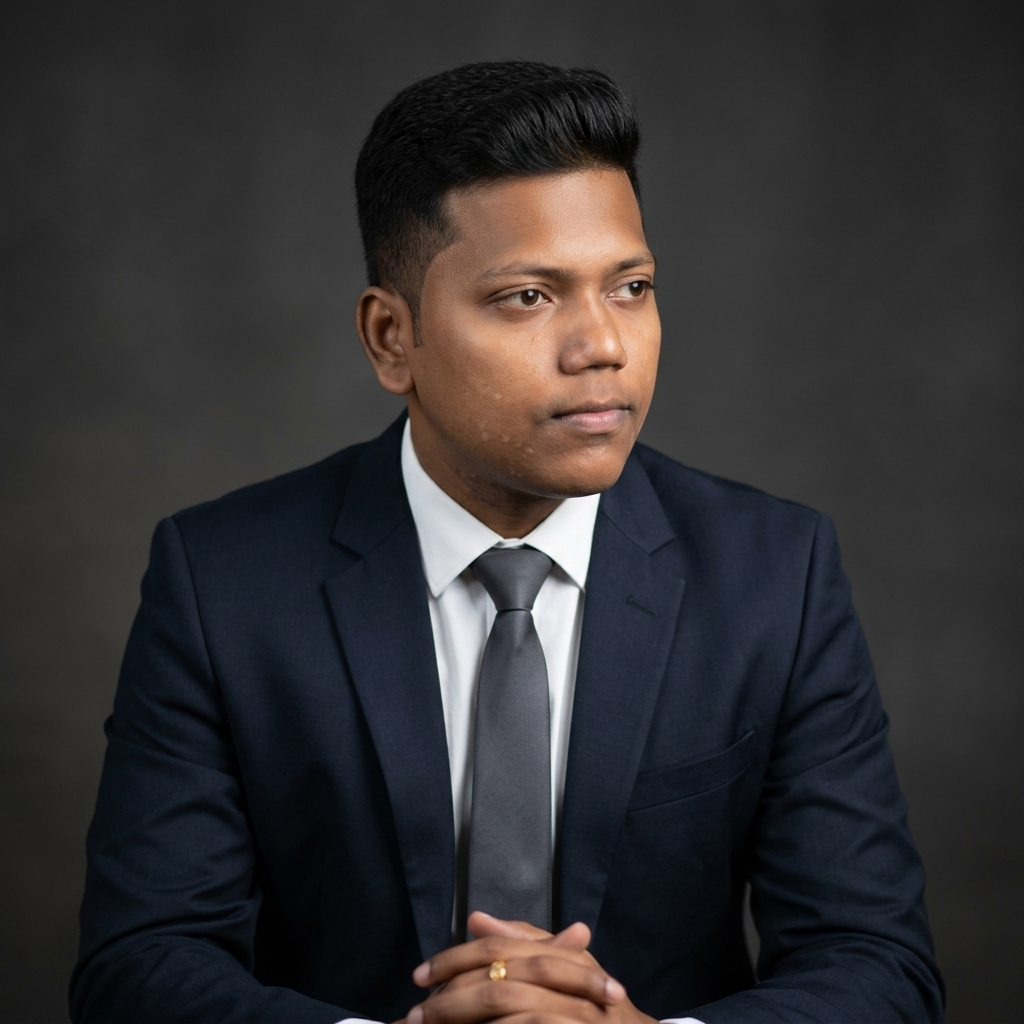
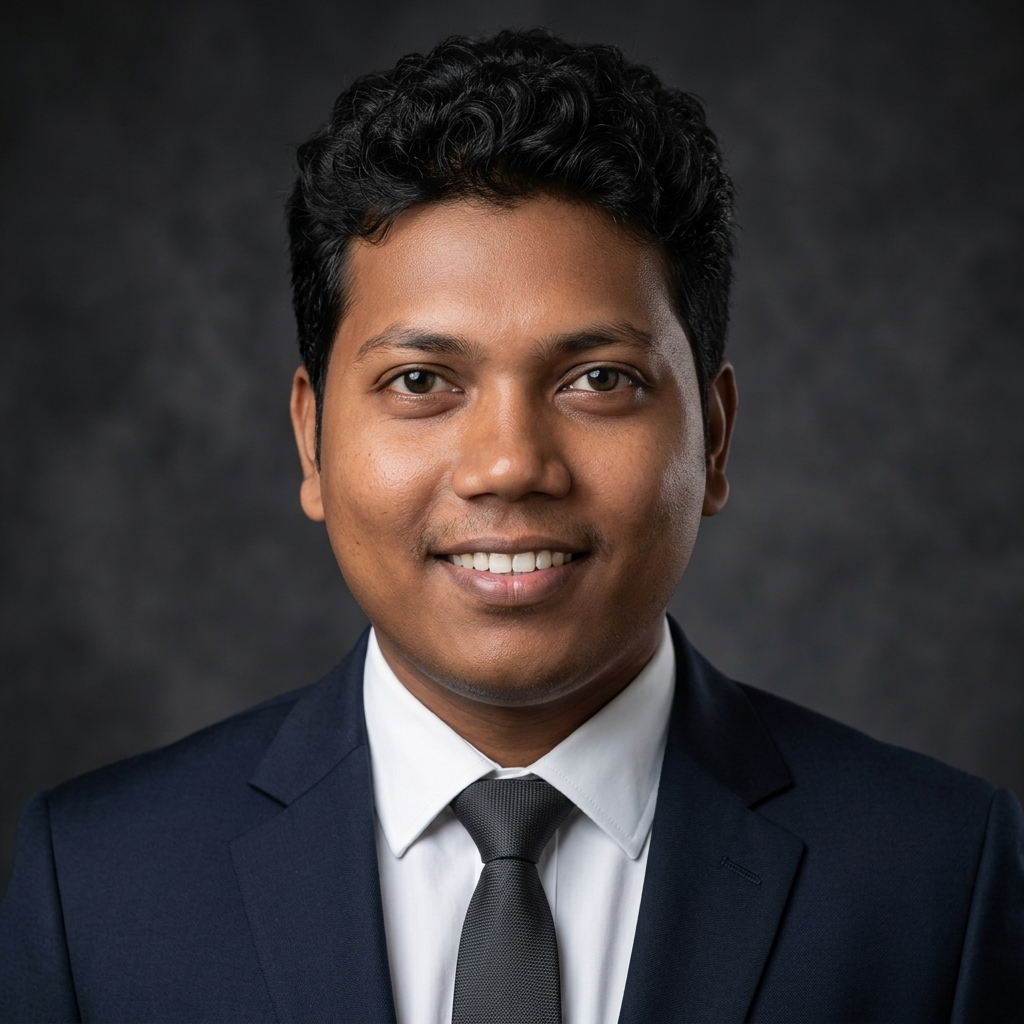
auto-commit for 847c9061-9483-4349-87a3-0b23bb8277fe

diff --git a/frontend/src/components/About.jsx b/frontend/src/components/About.jsx
@@ -1,5 +1,4 @@
 import { Code, Cloud, GitBranch, Cpu } from "lucide-react";
-import { useState } from "react";
 import Reveal from "./Reveal";
 
 const HIGHLIGHTS = [
@@ -23,9 +22,6 @@ const LINES = [
 ];
 
 export default function About() {
-  const [pose, setPose] = useState("front");
-  const portraitSrc =
-    pose === "front" ? "/assets/anil_front.png" : "/assets/anil_side.png";
   return (
     <section
       id="about"
@@ -65,39 +61,15 @@ export default function About() {
                 <span className="ml-2 font-mono text-xs text-[#94A3B8]">
                   ~/profile.jpg
                 </span>
-                <div className="ml-auto flex items-center gap-1 font-mono text-[10px]">
-                  <button
-                    type="button"
-                    data-testid="pose-toggle-front"
-                    onClick={() => setPose("front")}
-                    className={`px-2 py-1 rounded transition-colors ${
-                      pose === "front"
-                        ? "bg-[#10B981]/10 text-[#10B981] border border-[#10B981]/40"
-                        : "text-[#94A3B8] border border-[#1E293B] hover:text-[#F8FAFC]"
-                    }`}
-                  >
-                    --front
-                  </button>
-                  <button
-                    type="button"
-                    data-testid="pose-toggle-side"
-                    onClick={() => setPose("side")}
-                    className={`px-2 py-1 rounded transition-colors ${
-                      pose === "side"
-                        ? "bg-[#10B981]/10 text-[#10B981] border border-[#10B981]/40"
-                        : "text-[#94A3B8] border border-[#1E293B] hover:text-[#F8FAFC]"
-                    }`}
-                  >
-                    --side
-                  </button>
-                </div>
+                <span className="ml-auto font-mono text-[10px] text-[#10B981]">
+                  ● live
+                </span>
               </div>
               <div className="relative">
                 <img
-                  src={portraitSrc}
+                  src="/assets/anil_professional.png"
                   alt="Anil Kumar Patnana"
                   loading="lazy"
-                  key={pose}
                   className="w-full h-auto object-cover aspect-square transition-all duration-500 group-hover:scale-[1.02]"
                 />
                 {/* Subtle dark/green tint overlay */}

diff --git a/scripts/generate_professional_photo.py b/scripts/generate_professional_photo.py
@@ -1,5 +1,5 @@
-"""Minimal-edit approach: keep the source photo's head/face PIXELS intact and
-only swap the clothing + background. Two variants based on two source poses.
+"""Edit the user-provided smiling photo to put him in a suit while keeping
+the face IDENTICAL. Single output: anil_professional.png.
 """
 import asyncio
 import base64
@@ -11,88 +11,57 @@ from emergentintegrations.llm.chat import LlmChat, UserMessage, ImageContent
 
 load_dotenv("/app/backend/.env")
 
+SOURCE = Path("/tmp/anil_new_source.png")
 OUT_DIR = Path("/app/frontend/public/assets")
 OUT_DIR.mkdir(parents=True, exist_ok=True)
+OUT = OUT_DIR / "anil_professional.png"
+
+PROMPT = (
+    "Edit THIS exact photograph. ABSOLUTE PRIORITY: keep the head, face, "
+    "hair, smile, expression, skin tone and identity of the person EXACTLY "
+    "as in the original photo — same face pixels, same smiling expression "
+    "showing teeth, same eye shape, same nose, same lips, same eyebrows, "
+    "same hairstyle. Do NOT regenerate, beautify, slim, or idealize the "
+    "face in any way. He must remain perfectly recognizable as the SAME "
+    "person. "
+    "\n\nONLY change the following: "
+    "1) Replace the orange polo shirt with a tailored dark navy business "
+    "suit jacket worn over a crisp white dress shirt and a subtle dark "
+    "navy/charcoal tie. Crop to head-and-upper-shoulders only — remove the "
+    "watch, arms folded pose, and any visible hands. "
+    "2) Replace the outdoor airport/garden background with a soft-blurred "
+    "dark charcoal-grey studio backdrop. "
+    "3) Soften the lighting on the face slightly for a studio-portrait "
+    "feel, but keep the warm natural skin tone. "
+    "\n\nKeep his head perfectly centered, facing the camera with the same "
+    "warm smile from the original. Photorealistic, sharp focus on the "
+    "face, natural skin texture (visible pores, do not over-smooth, do not "
+    "airbrush). 1:1 square aspect ratio, high resolution."
+)
 
 
-# (output_name, source_image_for_edit, edit_prompt)
-JOBS = [
-    (
-        "anil_front.png",
-        Path("/tmp/ref_a.jpg"),
-        (
-            "Edit THIS exact photograph. CRITICAL: keep the head, face, hair, "
-            "skin tone, expression and identity of the person EXACTLY as they "
-            "appear in the original photo — same pixels in the face/head area, "
-            "NO regeneration of facial features, NO idealization, NO slimming. "
-            "Only modify what is described below: "
-            "1) Remove the phone, hands and arms from the frame. "
-            "2) Replace his orange polo shirt with a tailored dark navy "
-            "business suit jacket worn over a crisp white dress shirt and a "
-            "subtle dark navy tie. Crop the body to show head-and-shoulders "
-            "only. "
-            "3) Replace the bathroom/mirror background with a soft-blurred "
-            "dark charcoal grey studio backdrop. "
-            "4) Apply soft, even, flattering studio lighting on the face. "
-            "Keep the same head angle (slight 3/4 turn, gaze toward camera) "
-            "and the same exact facial features. Photorealistic, sharp focus "
-            "on the face, natural skin texture (do not over-smooth). 1:1 "
-            "square aspect ratio, high resolution."
-        ),
-    ),
-    (
-        "anil_side.png",
-        Path("/tmp/anil_original.jpg"),
-        (
-            "Edit THIS exact photograph. CRITICAL: keep the head, face, hair, "
-            "skin tone, expression and identity of the person EXACTLY as they "
-            "appear in the original photo — same pixels in the face/head area, "
-            "NO regeneration of facial features, NO idealization, NO slimming. "
-            "Only modify what is described below: "
-            "1) Remove the phone, hands and arms from the frame. "
-            "2) Replace his orange polo shirt with a tailored dark navy "
-            "business suit jacket worn over a crisp white dress shirt and a "
-            "subtle dark navy tie. Crop the body to show head-and-shoulders "
-            "only. "
-            "3) Replace the bathroom/mirror background with a soft-blurred "
-            "dark charcoal grey studio backdrop. "
-            "4) Apply soft, even, flattering studio lighting on the face. "
-            "Keep the same head angle (looking to the side) and the same "
-            "exact facial features. Photorealistic, sharp focus on the face, "
-            "natural skin texture (do not over-smooth). 1:1 square aspect "
-            "ratio, high resolution."
-        ),
-    ),
-]
-
-
-async def run_edit(prompt: str, source: Path, out: Path):
+async def main():
     api_key = os.getenv("EMERGENT_LLM_KEY")
-    image_b64 = base64.b64encode(source.read_bytes()).decode("utf-8")
+    image_b64 = base64.b64encode(SOURCE.read_bytes()).decode("utf-8")
     chat = LlmChat(
         api_key=api_key,
-        session_id=f"anil-edit-v3-{out.stem}",
+        session_id="anil-pro-final",
         system_message=(
-            "You are a precise photo retoucher. You NEVER change a person's "
-            "face. You only restyle their clothing, crop and background. "
-            "Preserve facial identity at all costs."
+            "You are a precise photo retoucher. You NEVER alter a person's "
+            "face. You only restyle clothing, crop and background while "
+            "leaving every facial pixel intact."
         ),
     )
     chat.with_model("gemini", "gemini-3.1-flash-image-preview").with_params(
         modalities=["image", "text"]
     )
-    msg = UserMessage(text=prompt, file_contents=[ImageContent(image_b64)])
+    msg = UserMessage(text=PROMPT, file_contents=[ImageContent(image_b64)])
     text, images = await chat.send_message_multimodal_response(msg)
-    print(f"{out.name}: text={(text or '')[:80]}, images={len(images or [])}")
+    print(f"text={(text or '')[:80]}, images={len(images or [])}")
     if not images:
-        raise RuntimeError("No images for " + out.name)
-    out.write_bytes(base64.b64decode(images[0]["data"]))
-    print(f"Saved -> {out} ({out.stat().st_size} bytes)")
-
-
-async def main():
-    for fname, source, prompt in JOBS:
-        await run_edit(prompt, source, OUT_DIR / fname)
+        raise RuntimeError("No images returned")
+    OUT.write_bytes(base64.b64decode(images[0]["data"]))
+    print(f"Saved -> {OUT} ({OUT.stat().st_size} bytes)")
 
 
 if __name__ == "__main__":